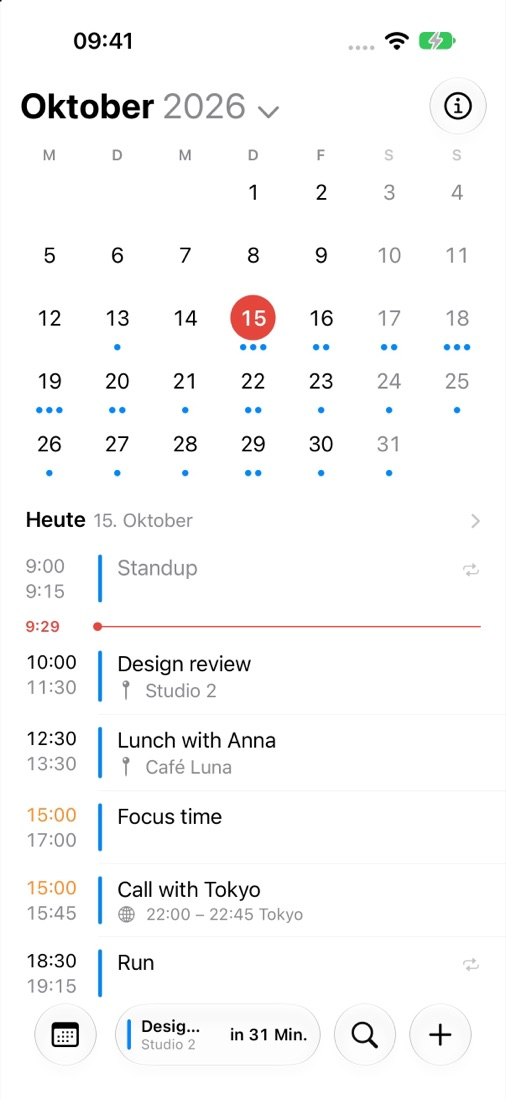
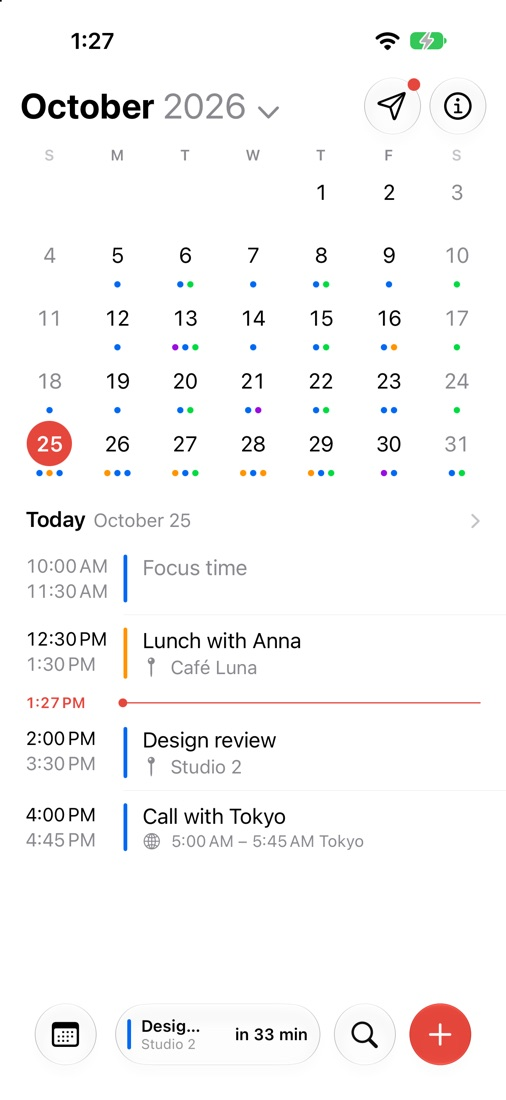
New screenshots and App Store links
The three iPhone screenshots are the ones from 4 November (month, week,
event card), at the same size and file names. Both pages get a Download on
the App Store button under the intro and an App Store link in the footer;
the README links it too. The link has no storefront in it, so Apple sends
each visitor to their own.

diff --git a/index.html b/index.html
@@ -18,6 +18,7 @@
       <h1>Dein Tag, auf einen Blick.</h1>
       <p>Day zeigt die Kalender, die du schon auf deinem Gerät eingerichtet hast: iCloud, Google, Exchange und andere. Tag, drei Tage, Woche, Monat und Jahr, mit schneller Eingabe, Widgets und Live-Aktivitäten.</p>
       <p class="fine">iPhone und iPad mit iOS 18 oder neuer · Kein Day-Konto · Kein Tracking</p>
+      <p class="store"><a class="btn" href="https://apps.apple.com/app/day-calendar/id6822896434">Im App Store laden</a></p>
     </div>
     <div class="shots">
       <img src="images/01-month.jpg" width="506" height="1100" alt="Monatsansicht mit Beispielterminen">
@@ -41,6 +42,6 @@
       <p>Datenschutz: <a href="privacy.html">Datenschutzerklärung</a> · <a href="en/privacy.html" hreflang="en">Privacy policy</a></p>
     </section>
   </main>
-  <footer class="foot"><div class="wrap"><p>Day · Teil von <a href="https://aiity.de">aiity</a></p><nav aria-label="Fußzeile"><a href="privacy.html">Datenschutz</a><a href="https://aiity.de/impressum">Impressum</a><a href="mailto:getaiityapp+day@gmail.com">Kontakt</a></nav></div></footer>
+  <footer class="foot"><div class="wrap"><p>Day · Teil von <a href="https://aiity.de">aiity</a></p><nav aria-label="Fußzeile"><a href="https://apps.apple.com/app/day-calendar/id6822896434">App Store</a><a href="privacy.html">Datenschutz</a><a href="https://aiity.de/impressum">Impressum</a><a href="mailto:getaiityapp+day@gmail.com">Kontakt</a></nav></div></footer>
 </body>
 </html>

diff --git a/en/index.html b/en/index.html
@@ -18,6 +18,7 @@
       <h1>Your day, at a glance.</h1>
       <p>Day shows the calendars already set up on your device: iCloud, Google, Exchange and others. Day, three days, week, month and year, with quick entry, widgets and Live Activities.</p>
       <p class="fine">iPhone and iPad with iOS 18 or later · No Day account · No tracking</p>
+      <p class="store"><a class="btn" href="https://apps.apple.com/app/day-calendar/id6822896434">Download on the App Store</a></p>
     </div>
     <div class="shots">
       <img src="../images/01-month.jpg" width="506" height="1100" alt="Month view with sample events">
@@ -41,6 +42,6 @@
       <p>Privacy: <a href="privacy.html">Privacy policy</a> · <a href="../privacy.html" hreflang="de">Datenschutzerklärung</a></p>
     </section>
   </main>
-  <footer class="foot"><div class="wrap"><p>Day · Part of <a href="https://aiity.de">aiity</a></p><nav aria-label="Footer"><a href="privacy.html">Privacy</a><a href="https://aiity.de/impressum">Legal notice</a><a href="mailto:getaiityapp+day@gmail.com">Contact</a></nav></div></footer>
+  <footer class="foot"><div class="wrap"><p>Day · Part of <a href="https://aiity.de">aiity</a></p><nav aria-label="Footer"><a href="https://apps.apple.com/app/day-calendar/id6822896434">App Store</a><a href="privacy.html">Privacy</a><a href="https://aiity.de/impressum">Legal notice</a><a href="mailto:getaiityapp+day@gmail.com">Contact</a></nav></div></footer>
 </body>
 </html>

diff --git a/site.css b/site.css
@@ -24,6 +24,10 @@ p { margin-top: 0; }
 .hero h1 { font-size: clamp(2.2rem, 7vw, 3.4rem); margin-bottom: 1rem; }
 .hero p { color: var(--muted); font-size: 1.15rem; max-width: 34em; }
 .fine { color: var(--muted); font-size: .85rem; }
+.store { margin: 20px 0 0; }
+.btn { display: inline-block; padding: 12px 22px; border-radius: 999px; background: var(--accent); color: #fff; font-weight: 650; text-decoration: none; }
+.btn:hover { filter: brightness(1.08); }
+@media (prefers-color-scheme: dark) { .btn { color: #141414; } }
 .shots { display: grid; grid-template-columns: repeat(3, 1fr); gap: 16px; padding-block: 8px 48px; }
 .shots img { border-radius: 18px; border: 1px solid var(--line); }
 

diff --git a/README.md b/README.md
@@ -2,7 +2,7 @@
 
 <h1 align="center">Day</h1>
 <p align="center"><strong>Your day, at a glance.</strong><br>A calm calendar for iPhone, iPad and Mac that shows the calendars you already have.</p>
-<p align="center"><a href="https://enrzh.github.io/Day/">Website</a> · <a href="https://enrzh.github.io/Day/en/privacy.html">Privacy</a> · <a href="https://enrzh.github.io/Day/privacy.html">Datenschutz</a> · <a href="mailto:getaiityapp+day@gmail.com">Contact</a></p>
+<p align="center"><a href="https://apps.apple.com/app/day-calendar/id6822896434">App Store</a> · <a href="https://enrzh.github.io/Day/">Website</a> · <a href="https://enrzh.github.io/Day/en/privacy.html">Privacy</a> · <a href="https://enrzh.github.io/Day/privacy.html">Datenschutz</a> · <a href="mailto:getaiityapp+day@gmail.com">Contact</a></p>
 
 ## About this repository
 
